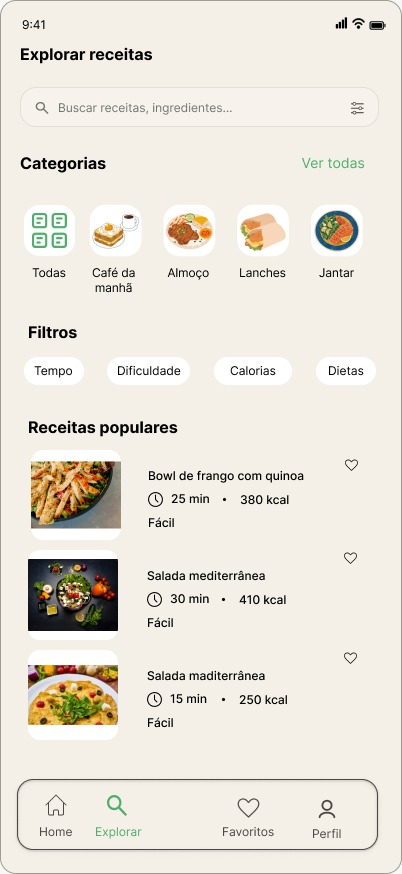
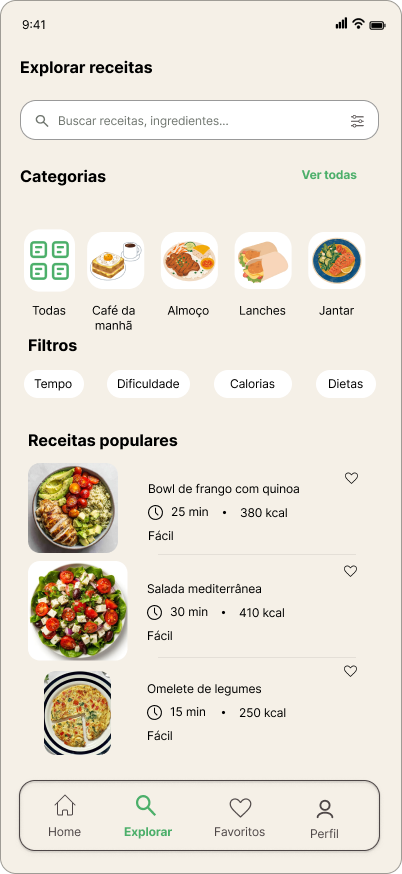
docs: atualiza documentação e identidade visual

diff --git a/README.md b/README.md
@@ -1,3 +1,15 @@
+## 👥 Integrantes
+
+| Integrante | RM |
+| ---------- | -- |
+| Bruno Anselmo da Silva | RM 566521 |
+| Fernando de Almeida Godoi Martines | RM 564820 |
+| Gabriel Ber Soares Tarone | RM 563520 |
+| Guilherme de Freitas Salgado | RM 562494 |
+| Vinicius Ribeiro Dias | RM 566468 |
+
+---
+
 # NutriGo 🥗
 
 O NutriGo é um aplicativo voltado para pessoas que desejam melhorar sua alimentação de forma simples, prática e social. A plataforma combina **compartilhamento de receitas, descoberta de novas opções alimentares e acompanhamento de hábitos**, criando um ambiente em que os usuários podem aprender, experimentar e evoluir juntos.
@@ -128,54 +140,81 @@ O conceito do logo pode combinar elementos relacionados a:
 | Creme           | `#F5EFE4`   | Fundos                                |
 | Bege            | `#E8DCC2`   | Fundos secundários e detalhes visuais |
 | Cinza escuro    | `#333333`   | Textos                                |
+| Cinza grafite   | `#4E4747`   | Ícones e texto de ícones              |
 | Branco          | `#FFFFFF`   | Fundos e contraste                    |
 
 A combinação busca transmitir **saúde e naturalidade** por meio dos tons verdes, enquanto o creme e beje adiciona simplicidade e destaque às interações.
 
-## 🔤 Tipografia e Interface
+## 🔤 Tipografia
+
+A identidade tipográfica do NutriGo utiliza a fonte **Inter** como fonte principal da interface.
+
+A escolha da fonte busca garantir boa legibilidade em dispositivos móveis, além de proporcionar uma aparência moderna, limpa e consistente em todas as telas do aplicativo.
+
+### Hierarquia tipográfica
 
 <p align="center">
-  <img src="./docs/imagens/home.jpeg" width="220">
-  <img src="./docs/imagens/explorar.jpeg" width="220">
-  <img src="./docs/imagens/favoritos.jpeg" width="220">
-  <img src="./docs/imagens/receita.jpeg" width="220">
-  <img src="./docs/imagens/perfil.jpeg" width="220">
+  <img src="./docs/imagens/tipografia.png" width="700">
 </p>
 
-<p align="center">
-  <strong>Home</strong>
-  &nbsp;&nbsp;&nbsp;&nbsp;&nbsp;&nbsp;
-  <strong>Explorar</strong>
-  &nbsp;&nbsp;&nbsp;&nbsp;&nbsp;&nbsp;
-  <strong>Favoritos</strong>
-  &nbsp;&nbsp;&nbsp;&nbsp;&nbsp;&nbsp;
-  <strong>Receita</strong>
-  &nbsp;&nbsp;&nbsp;&nbsp;&nbsp;&nbsp;
-  <strong>Perfil</strong>
-</p>
+| Estilo | Fonte | Peso | Tamanho |
+| ------ | ----- | ---- | ------- |
+| Título Logo | Inter | Bold | 40px |
+| Subtítulo | Inter | Semi Bold | 16px |
+| Texto Normal | Inter | Regular | 12px |
+| Texto Normal Chamativo | Inter | Bold | 12px |
+| Texto Botão | Inter | Bold | 12px |
+| Título Chamativo | Inter | Semi Bold | 24px |
+| Subtítulo Chamativo | Inter | Bold | 16px |
 
-### Principal
+### Aplicação da tipografia
 
-**Poppins**
+A hierarquia tipográfica é utilizada para manter consistência visual entre as diferentes telas do aplicativo:
 
-Utilização:
+- **Título Logo:** utilizado para destacar o nome e a identidade do aplicativo;
+- **Subtítulo:** utilizado em informações secundárias e seções da interface;
+- **Texto Normal:** utilizado em descrições, informações e conteúdos gerais;
+- **Texto Normal Chamativo:** utilizado quando uma informação textual precisa de maior destaque;
+- **Texto Botão:** utilizado nos botões e ações da interface;
+- **Título Chamativo:** utilizado nos principais títulos das telas e conteúdos;
+- **Subtítulo Chamativo:** utilizado para destacar seções e informações importantes.
 
-- Títulos;
-- Botões;
-- Elementos de navegação.
+---
 
-### Secundária
+## 📱 Interface
 
-**Inter**
+As telas do NutriGo seguem a identidade visual definida para o projeto, utilizando a paleta de cores, tipografia e elementos visuais de forma consistente.
 
-Utilização:
-
-- Textos;
-- Descrições;
-- Informações de receitas;
-- Elementos de interface.
-
-As duas fontes apresentam boa legibilidade em dispositivos móveis e permitem criar uma interface moderna e acessível.
+<table>
+  <tr>
+    <td align="center">
+      <strong>Login</strong><br><br>
+      <img src="./docs/imagens/login.jpeg" width="220">
+    </td>
+    <td align="center">
+      <strong>Home</strong><br><br>
+      <img src="./docs/imagens/home.jpeg" width="220">
+    </td>
+    <td align="center">
+      <strong>Explorar Receitas</strong><br><br>
+      <img src="./docs/imagens/explorar.jpeg" width="220">
+    </td>
+  </tr>
+  <tr>
+    <td align="center">
+      <strong>Detalhes da Receita</strong><br><br>
+      <img src="./docs/imagens/receita.jpeg" width="220">
+    </td>
+    <td align="center">
+      <strong>Favoritos</strong><br><br>
+      <img src="./docs/imagens/favoritos.jpeg" width="220">
+    </td>
+    <td align="center">
+      <strong>Perfil</strong><br><br>
+      <img src="./docs/imagens/perfil.jpeg" width="220">
+    </td>
+  </tr>
+</table>
 
 ---
 
